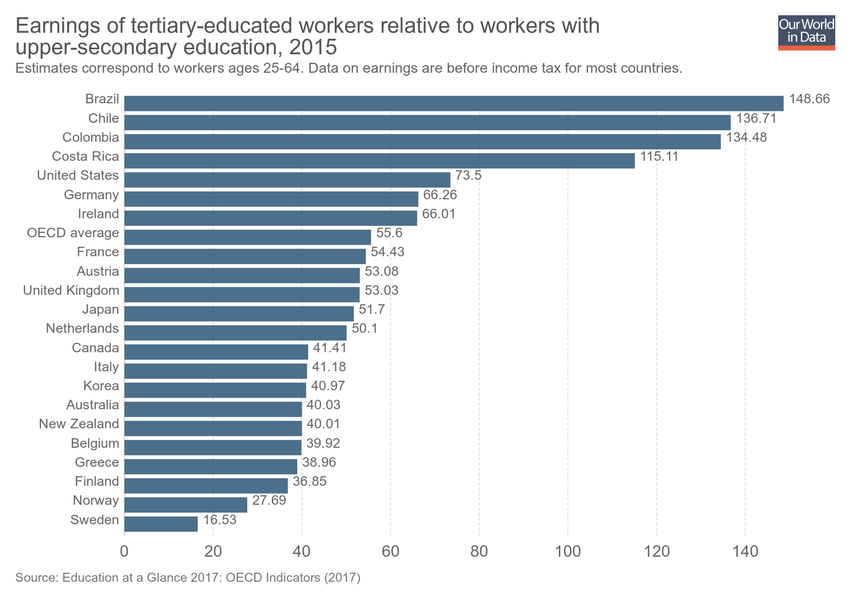
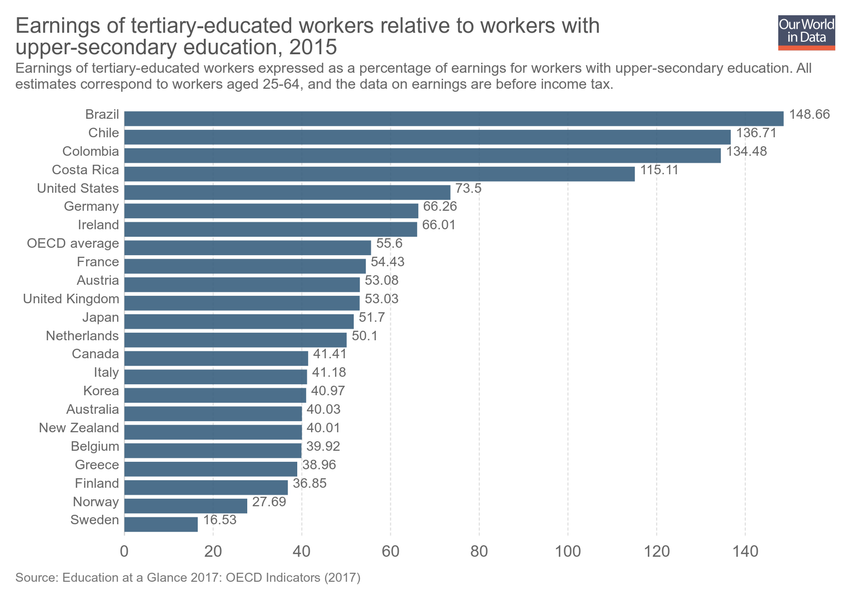
Updating chart earnings-of-tertiary-educated-workers-relative-to-workers-with-upper-secondary-education

Changed region(s): [[0.0, 0.09, 0.9788, 0.87]]

diff --git a/grapher/earnings-of-tertiary-educated-workers-relative-to-workers-with-upper-secondary-education.html b/grapher/earnings-of-tertiary-educated-workers-relative-to-workers-with-upper-secondary-education.html
@@ -1,4 +1,4 @@
-<!doctype html><html><head><meta name="viewport" content="width=device-width, initial-scale=1" /><title>Earnings of tertiary-educated workers relative to workers with upper-secondary education - Our World in Data</title><meta name="description" content="Estimates correspond to workers ages 25-64. Data on earnings are before income tax for most countries." /><link rel="canonical" href="https://ourworldindata.org/grapher/earnings-of-tertiary-educated-workers-relative-to-workers-with-upper-secondary-education" /><meta property="fb:app_id" content="1149943818390250" /><meta property="og:url" content="https://ourworldindata.org/grapher/earnings-of-tertiary-educated-workers-relative-to-workers-with-upper-secondary-education" /><meta property="og:title" content="Earnings of tertiary-educated workers relative to workers with upper-secondary education" /><meta property="og:description" content="Estimates correspond to workers ages 25-64. Data on earnings are before income tax for most countries." /><meta property="og:image" content="https://ourworldindata.org/grapher/exports/earnings-of-tertiary-educated-workers-relative-to-workers-with-upper-secondary-education.png?v=6" /><meta property="og:image:width" content="850" /><meta property="og:image:height" content="600" /><meta property="og:site_name" content="Our World in Data" /><meta name="twitter:card" content="summary_large_image" /><meta name="twitter:site" content="@OurWorldInData" /><meta name="twitter:creator" content="@OurWorldInData" /><meta name="twitter:title" content="Earnings of tertiary-educated workers relative to workers with upper-secondary education" /><meta name="twitter:description" content="Estimates correspond to workers ages 25-64. Data on earnings are before income tax for most countries." /><meta name="twitter:image" content="https://ourworldindata.org/grapher/exports/earnings-of-tertiary-educated-workers-relative-to-workers-with-upper-secondary-education.png?v=6" /><style>
+<!doctype html><html><head><meta name="viewport" content="width=device-width, initial-scale=1" /><title>Earnings of tertiary-educated workers relative to workers with upper-secondary education - Our World in Data</title><meta name="description" content="Earnings of tertiary-educated workers expressed as a percentage of earnings for workers with upper-secondary education. All estimates correspond to workers aged 25-64, and the data on earnings are before income tax." /><link rel="canonical" href="https://ourworldindata.org/grapher/earnings-of-tertiary-educated-workers-relative-to-workers-with-upper-secondary-education" /><meta property="fb:app_id" content="1149943818390250" /><meta property="og:url" content="https://ourworldindata.org/grapher/earnings-of-tertiary-educated-workers-relative-to-workers-with-upper-secondary-education" /><meta property="og:title" content="Earnings of tertiary-educated workers relative to workers with upper-secondary education" /><meta property="og:description" content="Earnings of tertiary-educated workers expressed as a percentage of earnings for workers with upper-secondary education. All estimates correspond to workers aged 25-64, and the data on earnings are before income tax." /><meta property="og:image" content="https://ourworldindata.org/grapher/exports/earnings-of-tertiary-educated-workers-relative-to-workers-with-upper-secondary-education.png?v=7" /><meta property="og:image:width" content="850" /><meta property="og:image:height" content="600" /><meta property="og:site_name" content="Our World in Data" /><meta name="twitter:card" content="summary_large_image" /><meta name="twitter:site" content="@OurWorldInData" /><meta name="twitter:creator" content="@OurWorldInData" /><meta name="twitter:title" content="Earnings of tertiary-educated workers relative to workers with upper-secondary education" /><meta name="twitter:description" content="Earnings of tertiary-educated workers expressed as a percentage of earnings for workers with upper-secondary education. All estimates correspond to workers aged 25-64, and the data on earnings are before income tax." /><meta name="twitter:image" content="https://ourworldindata.org/grapher/exports/earnings-of-tertiary-educated-workers-relative-to-workers-with-upper-secondary-education.png?v=7" /><style>
         html, body {
             height: 100%;
             margin: 0;
@@ -20,8 +20,8 @@
         }
     </style><noscript><style>
                     figure { display: none !important; }
-                </style></noscript><link rel="stylesheet" href="https://ourworldindata.org/grapher/assets/commons.bundle.b9f051796dbbbb7e5139.css" /><link rel="preload" href="/grapher/data/variables/97781.json?v=6" as="fetch" crossorigin /></head><body class="singleChart"><figure data-grapher-src="/grapher/earnings-of-tertiary-educated-workers-relative-to-workers-with-upper-secondary-education"></figure><noscript id="fallback"><img src="/grapher/exports/earnings-of-tertiary-educated-workers-relative-to-workers-with-upper-secondary-education.svg" /><p>Interactive visualization requires JavaScript</p></noscript><script src="https://cdn.polyfill.io/v2/polyfill.min.js?features=es6,fetch"></script><script src="https://ourworldindata.org/grapher/assets/commons.bundle.b9f051796dbbbb7e5139.js"></script><script src="https://ourworldindata.org/grapher/assets/charts.bundle.b9f051796dbbbb7e5139.js"></script><script>
-        var jsonConfig = {"id":2952,"map":{"projection":"World","colorSchemeLabels":[],"colorSchemeValues":[],"customNumericColors":[],"customCategoryColors":{},"customCategoryLabels":{},"customHiddenCategories":{}},"tab":"chart","slug":"earnings-of-tertiary-educated-workers-relative-to-workers-with-upper-secondary-education","type":"DiscreteBar","title":"Earnings of tertiary-educated workers relative to workers with upper-secondary education","xAxis":{"scaleType":"linear"},"yAxis":{"min":0,"scaleType":"linear"},"version":6,"subtitle":"Estimates correspond to workers ages 25-64. Data on earnings are before income tax for most countries.","hasMapTab":false,"stackMode":"absolute","dimensions":[{"display":{},"property":"y","variableId":97781}],"hasChartTab":true,"isPublished":true,"selectedData":[{"index":0,"entityId":10},{"index":0,"entityId":8},{"index":0,"entityId":166},{"index":0,"entityId":3},{"index":0,"entityId":149},{"index":0,"entityId":14},{"index":0,"entityId":2},{"index":0,"entityId":23},{"index":0,"entityId":24},{"index":0,"entityId":172},{"index":0,"entityId":5},{"index":0,"entityId":106},{"index":0,"entityId":102},{"index":0,"entityId":3783},{"index":0,"entityId":31416},{"index":0,"entityId":44},{"index":0,"entityId":6},{"index":0,"entityId":4},{"index":0,"entityId":155},{"index":0,"entityId":1},{"index":0,"entityId":13},{"index":0,"entityId":37},{"index":0,"entityId":170}],"addCountryMode":"add-country"};
+                </style></noscript><link rel="stylesheet" href="https://ourworldindata.org/grapher/assets/commons.bundle.b9f051796dbbbb7e5139.css" /><link rel="preload" href="/grapher/data/variables/97781.json?v=7" as="fetch" crossorigin /></head><body class="singleChart"><figure data-grapher-src="/grapher/earnings-of-tertiary-educated-workers-relative-to-workers-with-upper-secondary-education"></figure><noscript id="fallback"><img src="/grapher/exports/earnings-of-tertiary-educated-workers-relative-to-workers-with-upper-secondary-education.svg" /><p>Interactive visualization requires JavaScript</p></noscript><script src="https://cdn.polyfill.io/v2/polyfill.min.js?features=es6,fetch"></script><script src="https://ourworldindata.org/grapher/assets/commons.bundle.b9f051796dbbbb7e5139.js"></script><script src="https://ourworldindata.org/grapher/assets/charts.bundle.b9f051796dbbbb7e5139.js"></script><script>
+        var jsonConfig = {"id":2952,"map":{"projection":"World","colorSchemeLabels":[],"colorSchemeValues":[],"customNumericColors":[],"customCategoryColors":{},"customCategoryLabels":{},"customHiddenCategories":{}},"tab":"chart","slug":"earnings-of-tertiary-educated-workers-relative-to-workers-with-upper-secondary-education","type":"DiscreteBar","title":"Earnings of tertiary-educated workers relative to workers with upper-secondary education","xAxis":{"scaleType":"linear"},"yAxis":{"min":0,"scaleType":"linear"},"version":7,"subtitle":"Earnings of tertiary-educated workers expressed as a percentage of earnings for workers with upper-secondary education. All estimates correspond to workers aged 25-64, and the data on earnings are before income tax.","hasMapTab":false,"stackMode":"absolute","dimensions":[{"display":{},"property":"y","variableId":97781}],"hasChartTab":true,"isPublished":true,"selectedData":[{"index":0,"entityId":10},{"index":0,"entityId":8},{"index":0,"entityId":166},{"index":0,"entityId":3},{"index":0,"entityId":149},{"index":0,"entityId":14},{"index":0,"entityId":2},{"index":0,"entityId":23},{"index":0,"entityId":24},{"index":0,"entityId":172},{"index":0,"entityId":5},{"index":0,"entityId":106},{"index":0,"entityId":102},{"index":0,"entityId":3783},{"index":0,"entityId":31416},{"index":0,"entityId":44},{"index":0,"entityId":6},{"index":0,"entityId":4},{"index":0,"entityId":155},{"index":0,"entityId":1},{"index":0,"entityId":13},{"index":0,"entityId":37},{"index":0,"entityId":170}],"addCountryMode":"add-country"};
         var figure = document.getElementsByTagName("figure")[0];
         try {
             window.App = {};
